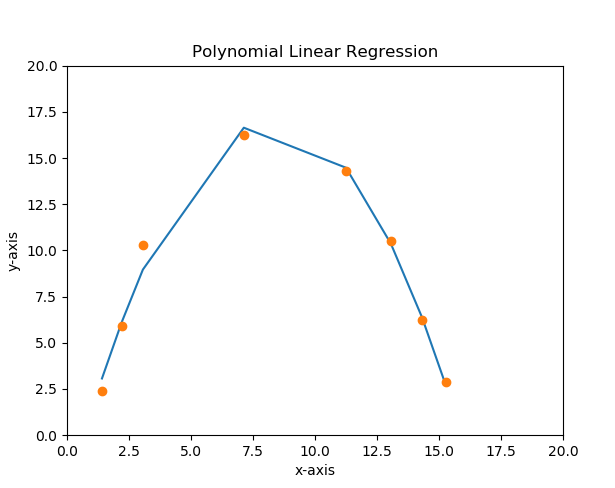
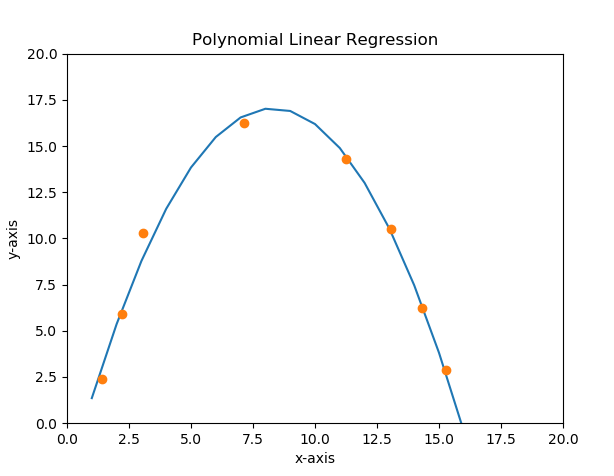
fix

diff --git a/PolynomialLR.py b/PolynomialLR.py
@@ -36,8 +36,7 @@ def data(x,y):
     return x,y;
 
 def plot(x,y):
-    plt.plot(np.unique(x),np.poly1d(np.polyfit(x,y,2))(np.unique(x)))
-    #print("Regression value:\n",np.unique(x),np.poly1d(np.polyfit(x,y,2))(np.unique(x)))
+    plt.plot(np.linspace(1,20,20),np.poly1d(np.polyfit(x,y,2))(np.linspace(1,20,20)))
     plt.plot(x,y,'o')
     plt.axis([0,20,0,20])
     plt.title("Polynomial Linear Regression")
